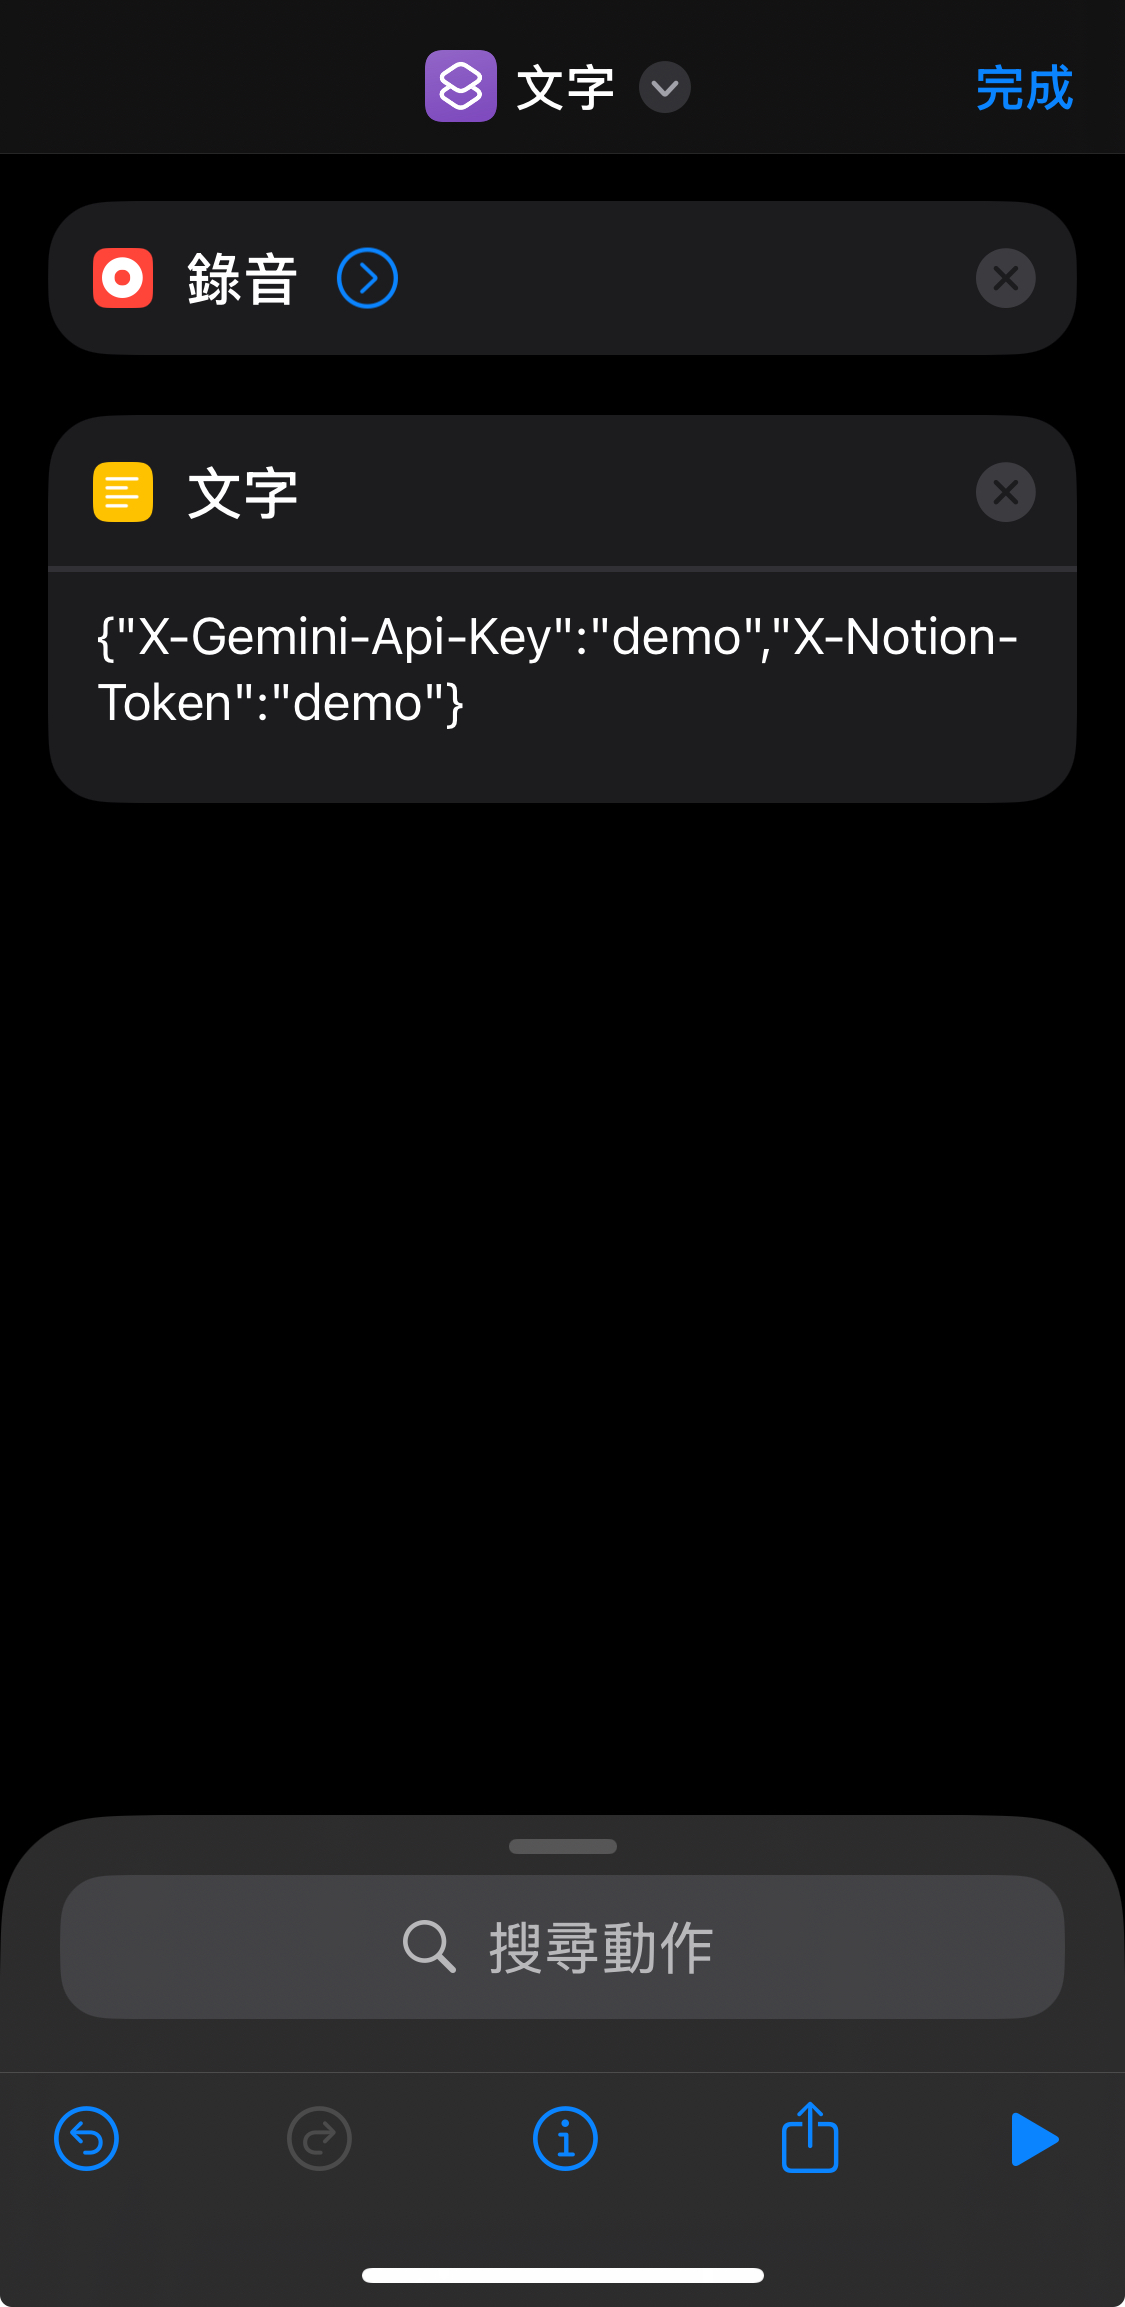
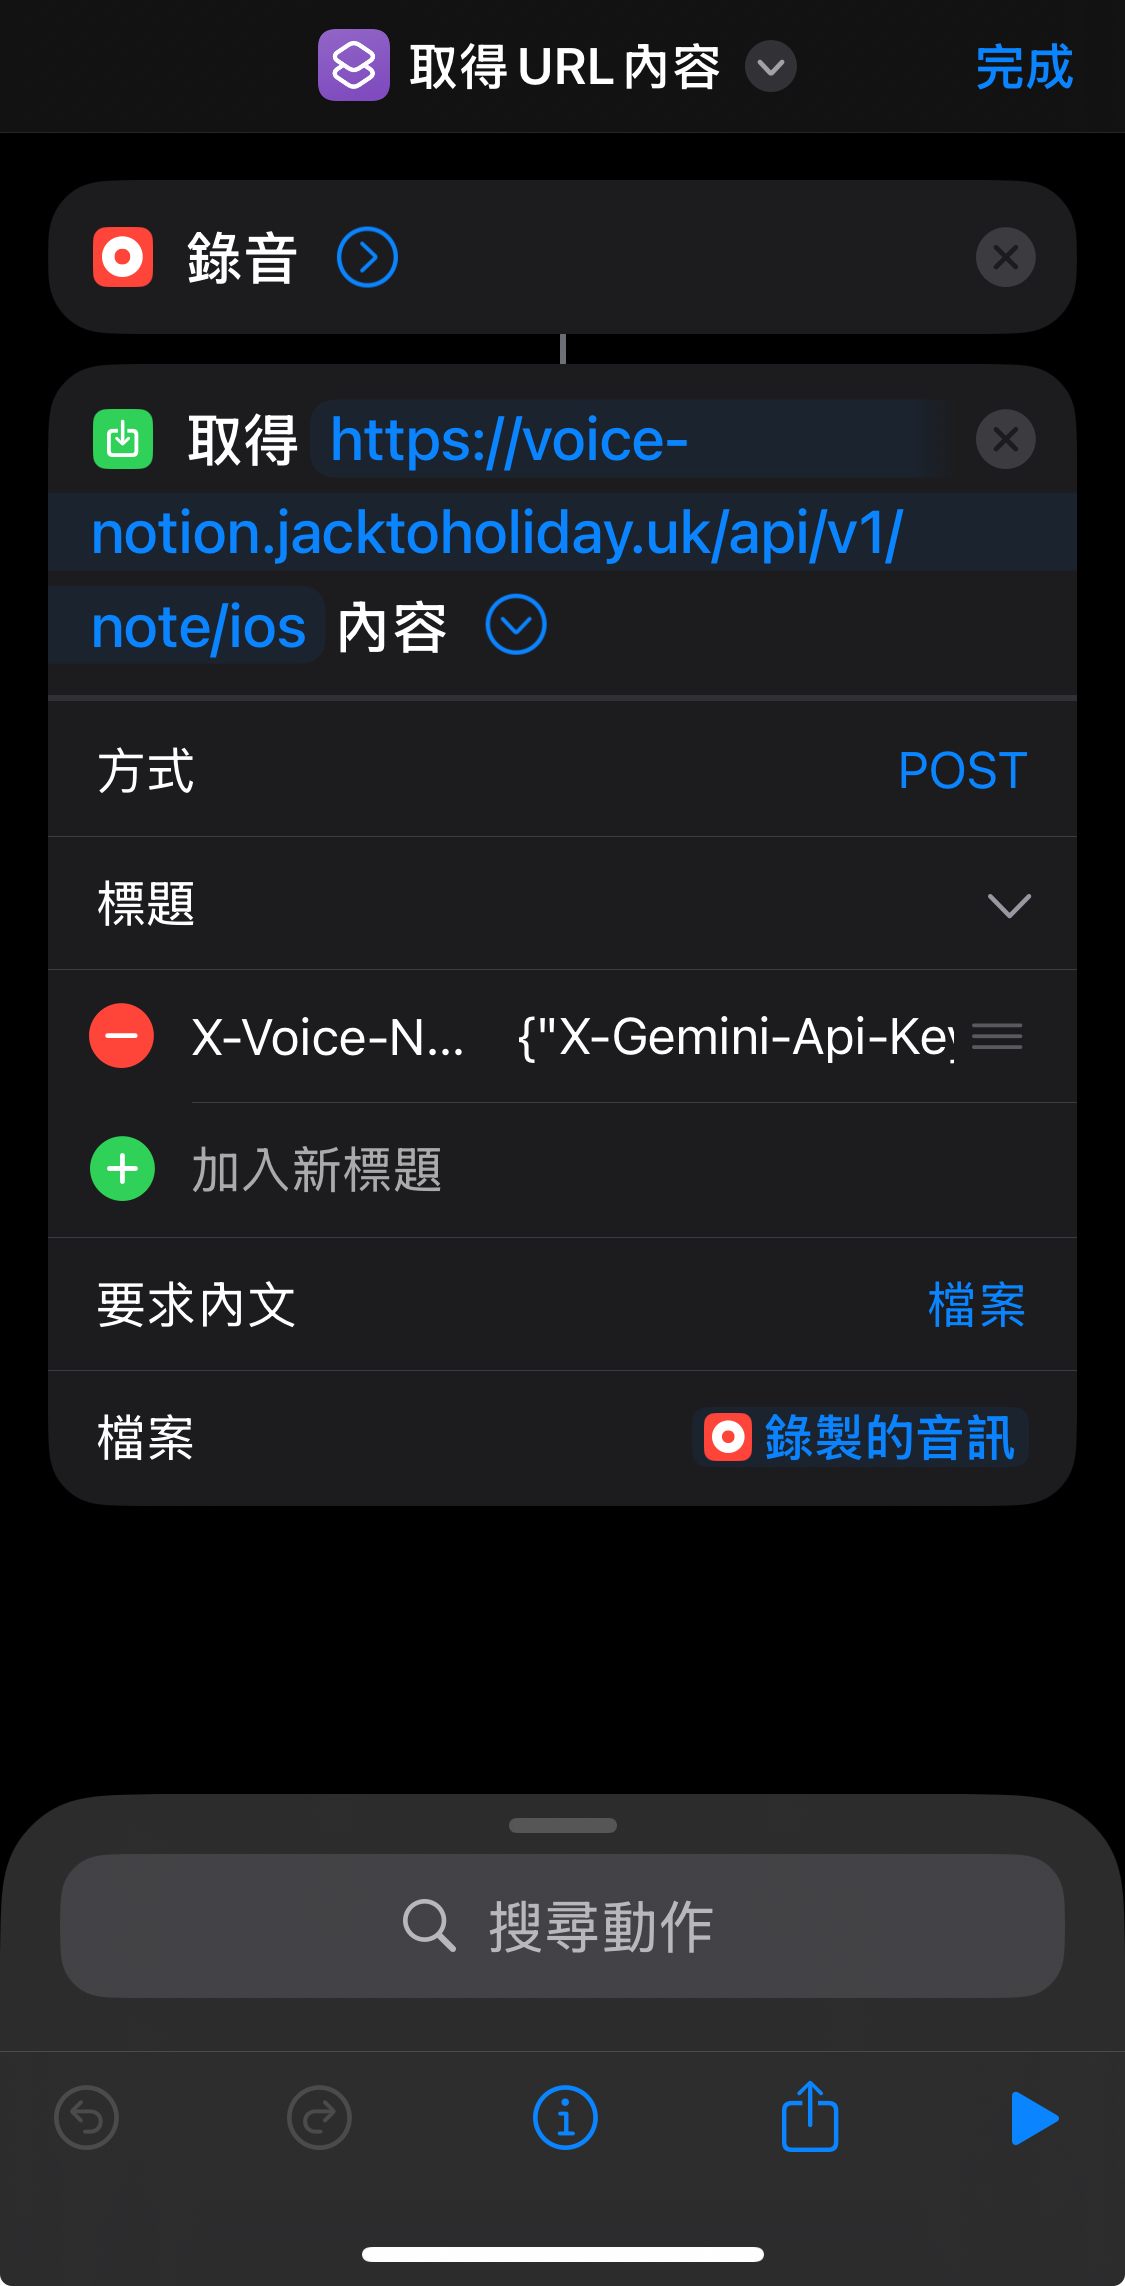
✨ feat(auth): unify and simplify iOS shortcut auth config via single header

diff --git a/backend/app/static/demo.html b/backend/app/static/demo.html
@@ -487,7 +487,8 @@
                                 class="w-8 h-8 rounded-xl bg-brand-500/20 text-brand-400 flex items-center justify-center text-xs font-bold ring-1 ring-brand-500/30">1</span>
                             <h4 class="font-semibold text-white">建立捷徑與錄音</h4>
                         </div>
-                        <p class="text-sm text-slate-400 leading-relaxed ml-11">開啟「捷徑」App，建立新捷徑並加入「<b>錄音</b>」動作。</p>
+                        <p class="text-sm text-slate-400 leading-relaxed ml-11">開啟「捷徑」App，建立新捷徑並加入「<b>錄音 (Record
+                                Audio)</b>」動作。</p>
                         <div
                             class="aspect-[9/16] max-w-[240px] bg-slate-950/80 rounded-2xl border border-white/5 flex items-center justify-center overflow-hidden ml-11 ring-4 ring-slate-900/50 shadow-2xl">
                             <img src="/static/img/guide/step1.jpeg" alt="步驟 1: 錄音" class="w-full h-full object-contain">
@@ -499,13 +500,21 @@
                         <div class="flex items-center gap-3">
                             <span
                                 class="w-8 h-8 rounded-xl bg-brand-500/20 text-brand-400 flex items-center justify-center text-xs font-bold ring-1 ring-brand-500/30">2</span>
-                            <h4 class="font-semibold text-white">貼入 JSON 設定</h4>
+                            <h4 class="font-semibold text-white">設定 API 請求與 Header</h4>
                         </div>
-                        <p class="text-sm text-slate-400 leading-relaxed ml-11">加入「<b>文字</b>」動作，直接貼入從本頁面複製的 <b>JSON
-                                內容</b>。</p>
+                        <div class="text-sm text-slate-400 leading-relaxed ml-11 space-y-2">
+                            <p>加入「<b>取得 URL 內容 (Get Contents of URL)</b>」，方法設為 <b>POST</b>。</p>
+                            <p>在 <b>標題 (Headers)</b> 手動加入：</p>
+                            <ul
+                                class="list-disc list-inside bg-slate-800/50 p-3 rounded-xl border border-white/5 text-xs text-brand-300">
+                                <li>鍵 (Key): <span class="text-white font-mono">X-Voice-Notion-Config</span></li>
+                                <li>值 (Value): <span class="text-white">點擊並貼入 JSON 代碼</span></li>
+                            </ul>
+                            <p>並在「要求內文」選擇<b>檔案</b>與<b>錄製的音訊</b>。</p>
+                        </div>
                         <div
                             class="aspect-[9/16] max-w-[240px] bg-slate-950/80 rounded-2xl border border-white/5 flex items-center justify-center overflow-hidden ml-11 ring-4 ring-slate-900/50 shadow-2xl">
-                            <img src="/static/img/guide/step2.jpeg" alt="步驟 2: 貼入 JSON"
+                            <img src="/static/img/guide/step2.jpeg" alt="步驟 2: API 設定"
                                 class="w-full h-full object-contain">
                         </div>
                     </div>
@@ -515,44 +524,13 @@
                         <div class="flex items-center gap-3">
                             <span
                                 class="w-8 h-8 rounded-xl bg-brand-500/20 text-brand-400 flex items-center justify-center text-xs font-bold ring-1 ring-brand-500/30">3</span>
-                            <h4 class="font-semibold text-white">解析設定內容</h4>
-                        </div>
-                        <p class="text-sm text-slate-400 leading-relaxed ml-11">加入「<b>從輸入項目取得辭典</b>」，捷徑會將上方的文字解析為變數。</p>
-                        <div
-                            class="aspect-[9/16] max-w-[240px] bg-slate-950/80 rounded-2xl border border-white/5 flex items-center justify-center overflow-hidden ml-11 ring-4 ring-slate-900/50 shadow-2xl">
-                            <img src="/static/img/guide/step3.jpeg" alt="步驟 3: 解析" class="w-full h-full object-contain">
-                        </div>
-                    </div>
-
-                    <!-- Guide Step 4 -->
-                    <div class="space-y-4">
-                        <div class="flex items-center gap-3">
-                            <span
-                                class="w-8 h-8 rounded-xl bg-brand-500/20 text-brand-400 flex items-center justify-center text-xs font-bold ring-1 ring-brand-500/30">4</span>
-                            <h4 class="font-semibold text-white">設定 API 請求</h4>
-                        </div>
-                        <p class="text-sm text-slate-400 leading-relaxed ml-11">加入「<b>取得 URL 的內容</b>」，方法設為 <b>POST</b>。在
-                            <b>標題 (Headers)</b> 選擇剛解析的「辭典」，並在「要求回覆本文」選擇<b>檔案</b>與<b>錄製的音訊</b>。
-                        </p>
-                        <div
-                            class="aspect-[9/16] max-w-[240px] bg-slate-950/80 rounded-2xl border border-white/5 flex items-center justify-center overflow-hidden ml-11 ring-4 ring-slate-900/50 shadow-2xl">
-                            <img src="/static/img/guide/step4.jpeg" alt="步驟 4: API"
-                                class="w-full h-full object-contain">
-                        </div>
-                    </div>
-
-                    <!-- Guide Step 5 -->
-                    <div class="space-y-4">
-                        <div class="flex items-center gap-3">
-                            <span
-                                class="w-8 h-8 rounded-xl bg-brand-500/20 text-brand-400 flex items-center justify-center text-xs font-bold ring-1 ring-brand-500/30">5</span>
-                            <h4 class="font-semibold text-white">設定通知與命名捷徑</h4>
+                            <h4 class="font-semibold text-white">設定通知與命名</h4>
                         </div>
                         <p class="text-sm text-slate-400 leading-relaxed ml-11">最後加入「<b>顯示通知</b>」並連結 URL
                             內容。並將捷徑重新命名為「記筆記」。</p>
                         <div
                             class="aspect-[9/16] max-w-[240px] bg-slate-950/80 rounded-2xl border border-white/5 flex items-center justify-center overflow-hidden ml-11 ring-4 ring-slate-900/50 shadow-2xl">
-                            <img src="/static/img/guide/step5.jpeg" alt="步驟 5: 通知" class="w-full h-full object-contain">
+                            <img src="/static/img/guide/step3.jpeg" alt="步驟 3: 通知" class="w-full h-full object-contain">
                         </div>
                     </div>
                 </div>

diff --git a/backend/app/core/dependencies.py b/backend/app/core/dependencies.py
@@ -2,7 +2,8 @@
 Dependency Injection
 依賴注入配置
 """
-from typing import Optional
+import json
+from typing import Optional, Dict
 from fastapi import Header, Request, HTTPException, Depends
 from app.services.stt_service import STTService
 from app.services.llm_service import LLMService
@@ -11,7 +12,9 @@ from app.services.notification_service import NotificationService
 from app.schemas.context import UserContext, AuthType
 from app.config import get_settings
 from app.core.rate_limit import RateLimiter
+from app.core.logger import get_logger
 
+logger = get_logger(__name__)
 settings = get_settings()
 
 # 單一 RateLimiter 實例 (每小時 3 次)
@@ -21,18 +24,14 @@ demo_rate_limiter = RateLimiter(times=3, hours=1)
 async def get_user_context(
     request: Request,
     x_api_key: Optional[str] = Header(None, alias="X-API-Key"),
-    x_gemini_api_key: Optional[str] = Header(None, alias="X-Gemini-Api-Key"),
-    x_notion_token: Optional[str] = Header(None, alias="X-Notion-Token"),
-    x_line_token: Optional[str] = Header(None, alias="X-Line-Token"),
-    x_line_user_id: Optional[str] = Header(None, alias="X-Line-User-ID"),
+    x_voice_notion_config: Optional[str] = Header(None, alias="X-Voice-Notion-Config"),
 ) -> UserContext:
     """
     實作智慧身份驗證與上下文注入
     
     1. 若帶有 X-API-Key 且匹配 -> Admin 模式
-    2. 若不匹配 -> 檢查是否為 Demo 意圖 (帶有 BYOK Headers)
-       - 是 -> 執行 Rate Limit，回傳 Demo Context
-       - 否 -> 拋出 401
+    2. 若帶有 X-Voice-Notion-Config -> 解析 JSON 並進入 Demo 模式 (BYOK)
+    3. 否則拋出 401
     """
     
     # Path A: Admin Intent
@@ -43,27 +42,41 @@ async def get_user_context(
                 ip_address=request.client.host
             )
         else:
-            # Explicit Admin Key provided but wrong
             raise HTTPException(status_code=401, detail="Invalid Admin API Key")
 
-    # Path B: Demo Intent (BYOK)
-    if x_gemini_api_key and x_notion_token:
-        # 執行限流檢查
-        await demo_rate_limiter(request)
-        
-        return UserContext(
-            type=AuthType.DEMO,
-            gemini_key=x_gemini_api_key,
-            notion_token=x_notion_token,
-            line_token=x_line_token,
-            line_user_id=x_line_user_id,
-            ip_address=request.client.host
-        )
-        
+    # Path B: Demo Intent (BYOK via Single Config Header)
+    if x_voice_notion_config:
+        try:
+            config = json.loads(x_voice_notion_config)
+            
+            # 嚴格從 JSON 中提取必要欄位
+            gemini_key = config.get("X-Gemini-Api-Key")
+            notion_token = config.get("X-Notion-Token")
+            line_token = config.get("X-Line-Token")
+            line_user_id = config.get("X-Line-User-ID")
+            
+            if gemini_key and notion_token:
+                await demo_rate_limiter(request)
+                return UserContext(
+                    type=AuthType.DEMO,
+                    gemini_key=gemini_key,
+                    notion_token=notion_token,
+                    line_token=line_token,
+                    line_user_id=line_user_id,
+                    ip_address=request.client.host
+                )
+            else:
+                logger.warning(f"Missing required fields in config from {request.client.host}")
+                raise HTTPException(status_code=400, detail="Config JSON missing required Gemini or Notion keys")
+                
+        except json.JSONDecodeError:
+            logger.warning(f"Invalid JSON in X-Voice-Notion-Config from {request.client.host}")
+            raise HTTPException(status_code=400, detail="Invalid configuration format (JSON required)")
+
     # No valid authentication provided
     raise HTTPException(
         status_code=401, 
-        detail="Authentication required. Provide a valid Admin Key or BYOK Headers."
+        detail="Authentication required. Provide X-Voice-Notion-Config or Admin Key."
     )
 
 

diff --git a/backend/app/routes/voice_note.py b/backend/app/routes/voice_note.py
@@ -107,7 +107,7 @@ async def upload_voice_note_ios(
     2. Headers 加入 X-API-Key
     3. Method 設為 POST
     
-    詳細設定請參考: docs/SIRI_INTEGRATION.md
+    詳細設定請參考: docs/SIRI_INTEGRATION_DEMO.md 或 docs/SIRI_INTEGRATION_ADMIN.md
     """
     try:
         # 📦 讀取檔案內容

diff --git a/docs/SIRI_INTEGRATION_DEMO.md b/docs/SIRI_INTEGRATION_DEMO.md
@@ -14,19 +14,18 @@
 ## 步驟 2：iOS 捷徑建立
 1. 開啟 iPhone 上的「**捷徑 (Shortcuts)**」App，點擊右上角「+」建立新捷徑。
 2. **加入動作**：搜尋「**錄音 (Record Audio)**」。
-3. **加入動作**：搜尋「**文字 (Text)**」。
-   - 直接將從網頁複製的 **JSON 完整貼入**此文字框。
-4. **加入動作**：搜尋「**從輸入項目取得辭典 (Get Dictionary from Input)**」。
-   - 捷徑會自動將上方的「文字」作為輸入，並解析為辭典格式。
-5. **加入動作**：搜尋「**取得 URL 內容 (Get Contents of URL)**」。
+3. **加入動作**：搜尋「**取得 URL 內容 (Get Contents of URL)**」。
    - **URL**：輸入展示網頁中提供的 API 端點。
    - 點擊展開箭頭 (顯示更多)：
      - **方法 (Method)**：選擇 `POST`。
-     - **標題 (Headers)**：點擊欄位，選擇剛才產生的變數「**辭典**」。
-     - **要求回覆本文 (Request Body)**：選擇「**檔案 (File)**」。
+     - **標題 (Headers)**：
+       1. 點擊「加入新標題」。
+       2. **鍵 (Key)**：輸入 `X-Voice-Notion-Config`。
+       3. **值 (Value)**：**貼入**剛才從網頁複製的那一串 JSON 代碼。
+     - **要求內文 (Request Body)**：選擇「**檔案 (File)**」。
      - **檔案 (File)**：選擇變數「**錄製的音訊**」。
-6. **加入動作**：搜尋「**顯示通知**」並連結 `URL 內容`。
-7. 將捷徑命名為「**記筆記**」或任何您喜歡的 Siri 喚醒詞。
+4. **加入動作**：搜尋「**顯示通知**」並連結 `URL 內容`。
+5. 將捷徑命名為「**記筆記**」或任何您喜歡的 Siri 喚醒詞。
 
 ---
 
